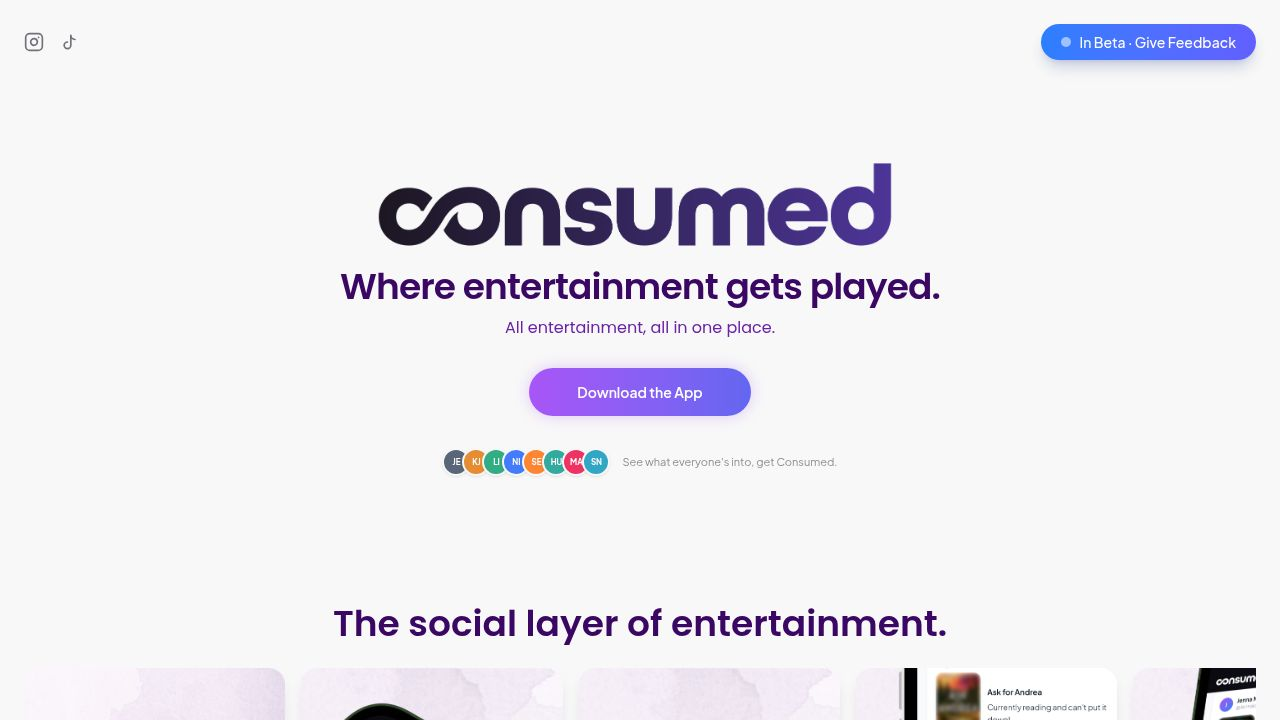
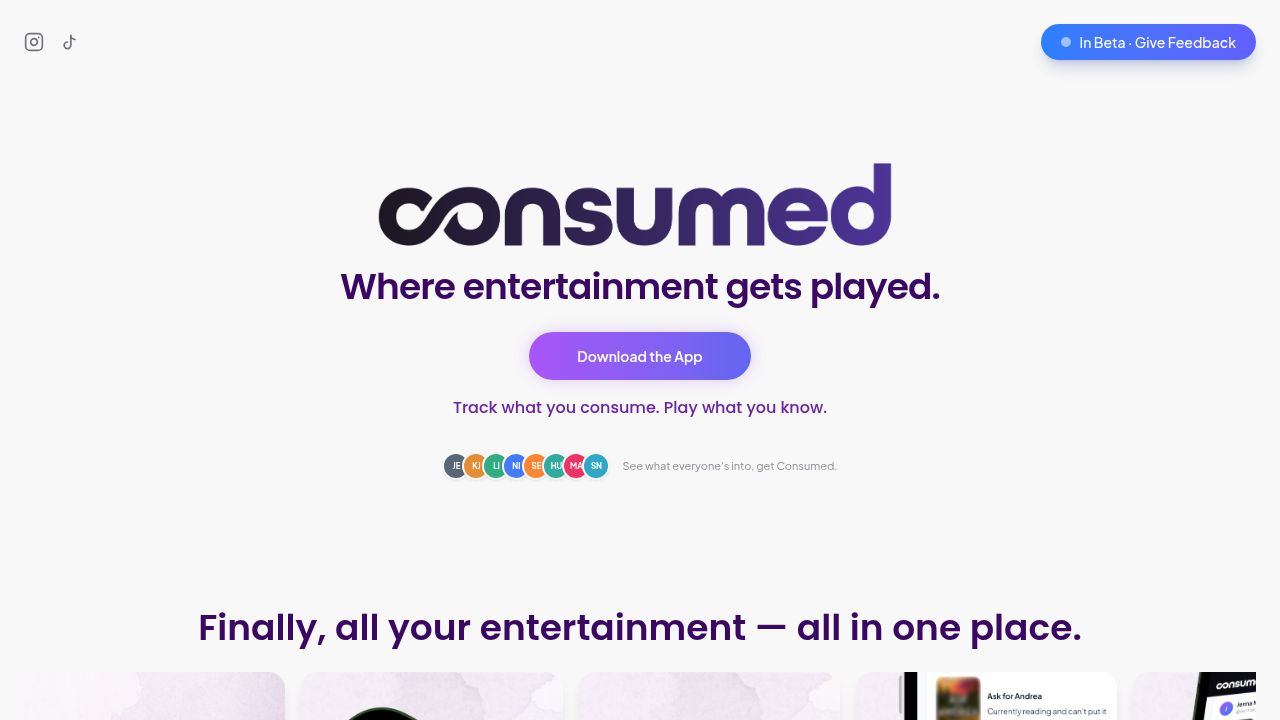
Reorganize home page content and messaging for clarity
Update the home page layout by removing a redundant line from the hero section and repositioning the "Track what you consume. Play what you know." text to appear directly below the download button.

Replit-Commit-Author: Agent
Replit-Commit-Session-Id: 1054afe4-a81a-4bfc-9d50-b308ff59b433
Replit-Commit-Checkpoint-Type: full_checkpoint
Replit-Commit-Event-Id: 827d72dc-e595-4548-8f8b-e68020b7965e
Replit-Commit-Screenshot-Url: https://storage.googleapis.com/screenshot-production-us-central1/3ba4014b-a542-439a-b8e3-25ffaea1718b/1054afe4-a81a-4bfc-9d50-b308ff59b433/5TaNYB5
Replit-Helium-Checkpoint-Created: true

diff --git a/client/src/pages/home.tsx b/client/src/pages/home.tsx
@@ -186,20 +186,11 @@ export default function Home() {
             Where entertainment gets played.
           </motion.h1>
 
-          <motion.p
-            initial={{ opacity: 0, y: 20 }}
-            animate={{ opacity: 1, y: 0 }}
-            transition={{ duration: 0.6, delay: 0.15 }}
-            className="text-sm md:text-base font-medium text-[#6b21a8] mb-2"
-          >
-            Track what you consume. Play what you know.
-          </motion.p>
-
           <motion.div 
             initial={{ opacity: 0, y: 20 }}
             animate={{ opacity: 1, y: 0 }}
-            transition={{ duration: 0.6, delay: 0.2 }}
-            className="flex justify-center items-center w-full mt-1"
+            transition={{ duration: 0.6, delay: 0.15 }}
+            className="flex justify-center items-center w-full mt-4"
           >
             <a 
               href="https://apps.apple.com/us/app/consumed-medias-social-layer/id6759014223"
@@ -211,6 +202,15 @@ export default function Home() {
               Download the App
             </a>
           </motion.div>
+
+          <motion.p
+            initial={{ opacity: 0, y: 20 }}
+            animate={{ opacity: 1, y: 0 }}
+            transition={{ duration: 0.6, delay: 0.2 }}
+            className="text-sm md:text-base font-medium text-[#6b21a8] mt-4"
+          >
+            Track what you consume. Play what you know.
+          </motion.p>
 
           {/* Avatars — under Download button */}
           <motion.div
